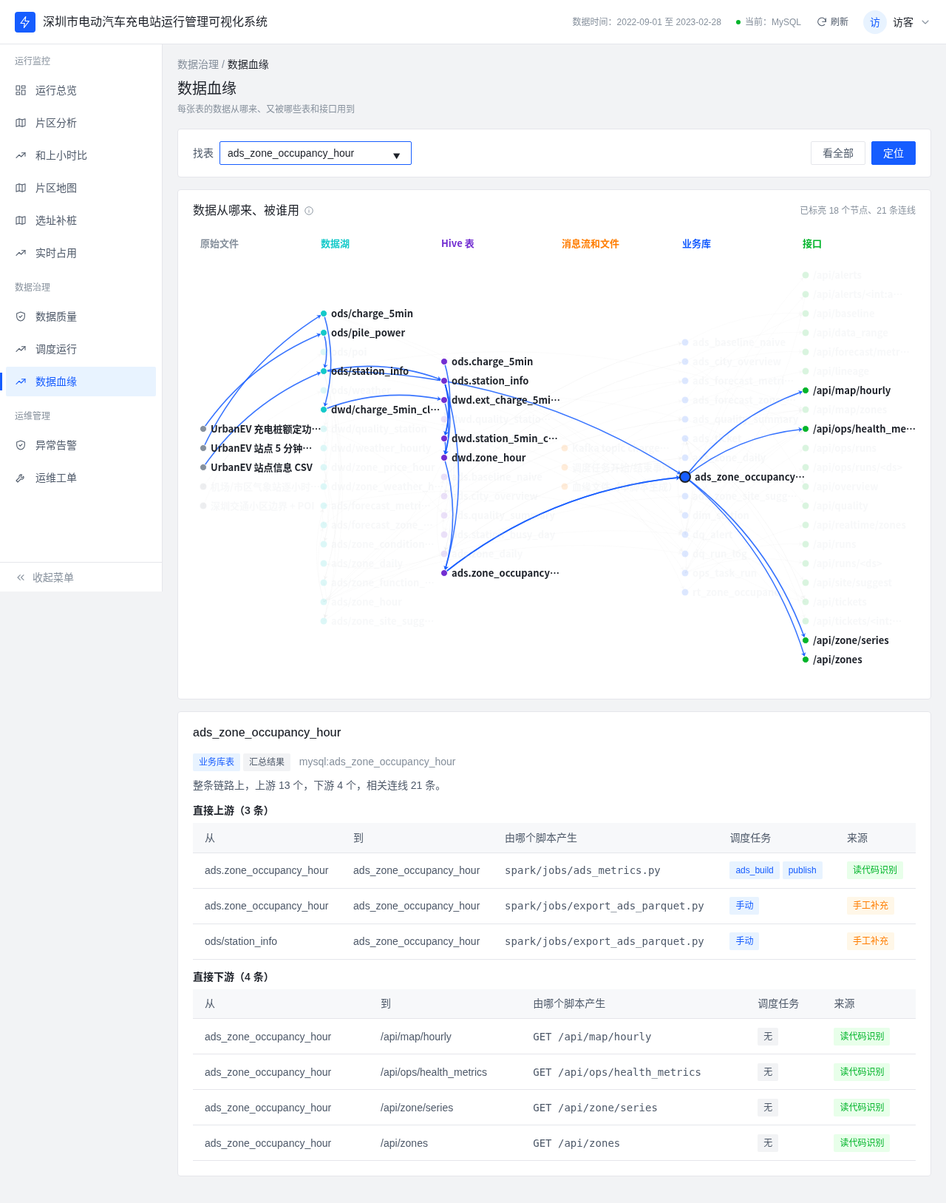
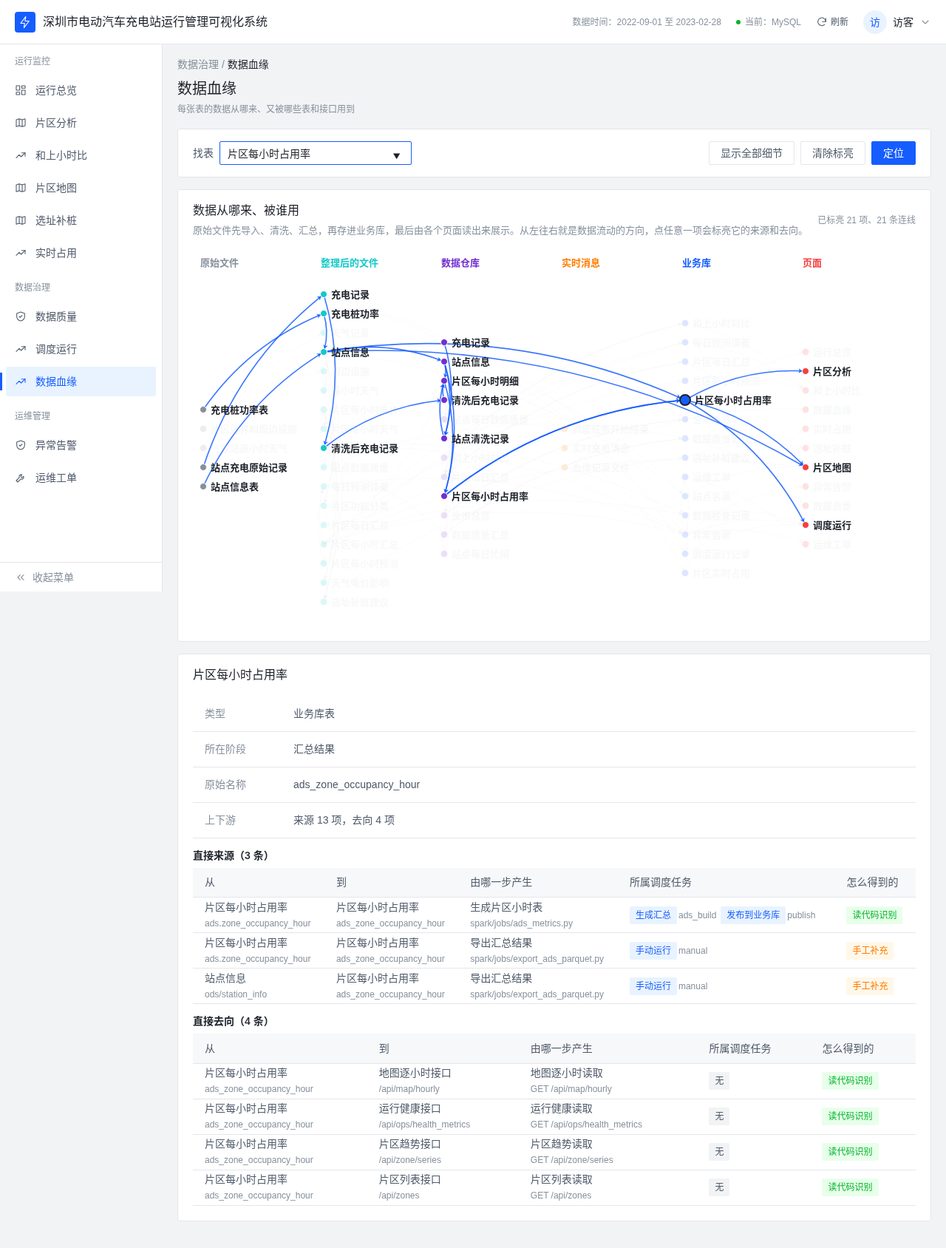
web: 数据血缘页改成中文名称、默认简要视图（业务库→页面），可切换全部细节；详情面板中文化

diff --git a/web/index.html b/web/index.html
@@ -288,11 +288,11 @@
     </section>
     <section class="view" id="view-lineage">
       <div class="card filter">
-        <div class="f">找表<input id="lnSearch" list="lnList" placeholder="输入表名、目录或接口" style="width:260px" /><datalist id="lnList"></datalist></div>
-        <div class="ops"><button class="btn" id="lnReset">看全部</button><button class="btn primary" id="lnFind">定位</button></div>
+        <div class="f">找表<input id="lnSearch" list="lnList" placeholder="输入名称，如 片区每小时占用率" style="width:260px" /><datalist id="lnList"></datalist></div>
+        <div class="ops"><button class="btn" id="lnToggle">显示全部细节</button><button class="btn" id="lnReset">清除标亮</button><button class="btn primary" id="lnFind">定位</button></div>
       </div>
       <div class="grid">
-        <div class="card col-24"><div class="card-head"><div class="card-title">数据从哪来、被谁用<span class="tip" data-tip="从左到右是数据流动的方向。点一个节点，会把它的全部上游和下游标亮"><svg class="ic"><use href="#i-info"/></svg></span></div><div class="card-extra" id="lnExtra"></div></div>
+        <div class="card col-24"><div class="card-head"><div><div class="card-title">数据从哪来、被谁用</div><div style="color:#86909c;font-size:13px;margin-top:4px">原始文件先导入、清洗、汇总，再存进业务库，最后由各个页面读出来展示。从左往右就是数据流动的方向，点任意一项会标亮它的来源和去向。</div></div><div class="card-extra" id="lnExtra"></div></div>
           <div class="card-body"><div id="lnState" class="empty" style="display:none"></div><div id="chartLineage" style="height:640px"></div></div></div>
         <div class="card col-24" id="lnPanel" style="display:none"><div class="card-head"><div class="card-title" id="lnPanelTitle">节点详情</div></div>
           <div class="card-body" id="lnPanelBody"></div></div>
@@ -1317,13 +1317,64 @@
     let rtRows = [];
     function rtStart() { if (rtTimer) return; loadRealtime(); rtTimer = setInterval(() => { if (!document.hidden) loadRealtime(); }, RT_EVERY); }
     /* ---------- 数据血缘 ---------- */
-    const LN_COLS = [["raw", "原始文件"], ["lake", "数据湖"], ["hive", "Hive 表"], ["stream", "消息流和文件"], ["mysql", "业务库"], ["api", "接口"]];
-    const LN_COL_OF = { raw: 0, lake: 1, hive: 2, stream: 3, file: 3, mysql: 4, api: 5 };
-    const LN_KIND = { raw: "原始文件", lake: "数据湖目录", hive: "Hive 表", stream: "消息流", file: "文件", mysql: "业务库表", api: "接口" };
-    const LN_LAYER = { raw: "原始数据", ods: "原始入库", dwd: "清洗后", ads: "汇总结果", dq: "数据检查", ops: "调度记录", rt: "实时", stream: "消息流", file: "文件", api: "接口" };
-    const LN_COLOR = ["#86909c", "#14c9c9", "#722ed1", "#ff7d00", "#165dff", "#00b42a"];
-    let lnAll = null, lnSel = null, lnHi = null, lnHiEdges = null;
-    const lnName = id => { const n = lnAll && lnAll.nodes.find(x => x.id === id); return n ? n.label : id; };
+    const LN_NAME = {
+      "raw:pile_information": "充电桩功率表", "raw:station_information": "站点信息表", "raw:taz_shapefile_poi": "片区边界和周边设施",
+      "raw:urbanev_station_raw": "站点充电原始记录", "raw:weather_csv": "气象站逐小时天气",
+      "stream:airflow_task_events": "调度任务开始结束", "stream:kafka_charge_5min": "实时充电消息", "file:lineage/lineage.json": "血缘记录文件",
+      "lake:ods/charge_5min": "充电记录", "lake:ods/pile_power": "充电桩功率", "lake:ods/poi": "周边设施", "lake:ods/station_info": "站点信息", "lake:ods/weather": "天气记录",
+      "lake:dwd/charge_5min_clean": "清洗后充电记录", "lake:dwd/quality_station": "站点数据质量", "lake:dwd/weather_hourly": "每小时天气",
+      "lake:dwd/zone_price_hour": "片区每小时电价", "lake:dwd/zone_weather_hour": "片区每小时天气",
+      "lake:ads/forecast_metric_daily": "每日预测误差", "lake:ads/forecast_zone_hour": "片区每小时预测", "lake:ads/zone_condition_effect": "天气电价影响",
+      "lake:ads/zone_daily": "片区每日汇总", "lake:ads/zone_function_label": "片区功能分类", "lake:ads/zone_hour": "片区每小时汇总", "lake:ads/zone_site_suggest": "选址补桩建议",
+      "hive:ods.charge_5min": "充电记录", "hive:ods.station_info": "站点信息", "hive:dwd.ext_charge_5min_clean": "清洗后充电记录",
+      "hive:dwd.quality_station_day": "站点每日数据质量", "hive:dwd.station_5min_clean": "站点清洗记录", "hive:dwd.zone_hour": "片区每小时明细",
+      "hive:ads.baseline_naive": "和上小时对比", "hive:ads.city_overview": "全市总览", "hive:ads.quality_summary": "数据质量汇总",
+      "hive:ads.station_busy_day": "站点每日忙闲", "hive:ads.zone_daily": "片区每日汇总", "hive:ads.zone_occupancy_hour": "片区每小时占用率",
+      "mysql:ads_baseline_naive": "和上小时对比", "mysql:ads_city_overview": "全市总览", "mysql:ads_forecast_metric_daily": "每日预测误差",
+      "mysql:ads_forecast_zone_hour": "片区每小时预测", "mysql:ads_quality_summary": "数据质量汇总", "mysql:ads_ticket": "运维工单",
+      "mysql:ads_zone_daily": "片区每日汇总", "mysql:ads_zone_occupancy_hour": "片区每小时占用率", "mysql:ads_zone_site_suggest": "选址补桩建议",
+      "mysql:dim_station": "站点名录", "mysql:dq_alert": "异常告警", "mysql:dq_run_log": "数据检查记录", "mysql:ops_task_run": "调度运行记录", "mysql:rt_zone_occupancy": "片区实时占用",
+      "api:/api/alerts": "告警列表接口", "api:/api/alerts/<int:alert_id>": "告警处理接口", "api:/api/baseline": "上小时对比接口", "api:/api/data_range": "数据时间范围接口",
+      "api:/api/forecast/metrics": "预测误差接口", "api:/api/lineage": "数据血缘接口", "api:/api/map/hourly": "地图逐小时接口", "api:/api/map/zones": "地图片区接口",
+      "api:/api/ops/health_metrics": "运行健康接口", "api:/api/ops/runs": "运行记录接口", "api:/api/ops/runs/<ds>": "单日运行接口", "api:/api/overview": "总览接口",
+      "api:/api/quality": "数据质量接口", "api:/api/realtime/zones": "实时占用接口", "api:/api/runs": "调度运行接口", "api:/api/runs/<ds>": "单日调度接口",
+      "api:/api/site/suggest": "选址建议接口", "api:/api/tickets": "工单列表接口", "api:/api/tickets/<int:ticket_id>": "工单处理接口",
+      "api:/api/zone/series": "片区趋势接口", "api:/api/zones": "片区列表接口"
+    };
+    const LN_PAGE_OF = { "/api/overview": "overview", "/api/data_range": "overview", "/api/zones": "zone", "/api/zone/series": "zone", "/api/baseline": "baseline",
+      "/api/forecast/metrics": "baseline", "/api/map/hourly": "map", "/api/map/zones": "map", "/api/site/suggest": "site", "/api/realtime/zones": "realtime",
+      "/api/quality": "quality", "/api/runs": "runs", "/api/runs/<ds>": "runs", "/api/ops/runs": "runs", "/api/ops/runs/<ds>": "runs", "/api/ops/health_metrics": "runs",
+      "/api/lineage": "lineage", "/api/alerts": "alerts", "/api/alerts/<int:alert_id>": "alerts", "/api/tickets": "tickets", "/api/tickets/<int:ticket_id>": "tickets" };
+    const LN_SCRIPT = { "etl/full_pipeline.py": "整理原始数据", "etl/pile_power.py": "整理充电桩功率", "etl/weather_price.py": "整理天气和电价", "etl/zone_profile.py": "生成片区画像",
+      "forecast/daily.py": "每日预测", "forecast/evaluate.py": "评估预测误差", "orchestration/backfill_run_log.py": "补录运行记录", "orchestration/rebuild_dq_alerts.py": "重新生成告警",
+      "orchestration/run_log.py": "记录调度运行", "quality/engine.py": "数据检查", "spark/jobs/ads_build.py": "生成汇总表", "spark/jobs/ads_metrics.py": "生成片区小时表",
+      "spark/jobs/dwd_clean.py": "清洗充电记录", "spark/jobs/export_ads_parquet.py": "导出汇总结果", "stream/zone_occupancy_stream.py": "计算实时占用",
+      "PATCH /api/alerts/<int:alert_id>": "处理告警时写回", "PATCH /api/tickets/<int:ticket_id>": "处理工单时写回", "POST /api/tickets": "新建工单" };
+    const LN_TASK = { ads_build: "生成汇总", all_tasks: "全部任务", dq_ads: "检查汇总数据", dq_dwd: "检查清洗数据", dq_ods: "检查原始数据", dwd_build: "清洗数据",
+      forecast_daily: "每日预测", forecast_evaluate: "评估预测", manual: "手动运行", ods_ingest: "导入原始数据", publish: "发布到业务库", streaming: "实时计算" };
+    const LN_KIND = { raw: "原始文件", lake: "整理后的文件", hive: "数据仓库表", stream: "实时消息", file: "文件", mysql: "业务库表", api: "接口", page: "页面" };
+    const LN_LAYER = { raw: "原始数据", ods: "刚导入", dwd: "清洗后", ads: "汇总结果", dq: "数据检查", ops: "调度记录", rt: "实时", stream: "实时消息", file: "文件", api: "接口", page: "页面" };
+    const lnScript = s => { if (!s) return "—"; if (LN_SCRIPT[s]) return LN_SCRIPT[s]; const m = s.match(/^GET (\S+)/); return m && LN_NAME["api:" + m[1]] ? LN_NAME["api:" + m[1]].replace(/接口$/, "") + "读取" : s; };
+    let lnAll = null, lnSel = null, lnHi = null, lnFull = false;
+    const lnNode = id => lnView().nodes.find(x => x.id === id) || (lnAll && lnAll.nodes.find(x => x.id === id));
+    const lnName = id => id.startsWith("page:") ? ROUTES[id.slice(5)][1] : (LN_NAME[id] || ((lnAll && lnAll.nodes.find(x => x.id === id)) || {}).label || id);
+    const lnRaw = id => { const n = lnAll && lnAll.nodes.find(x => x.id === id); return n ? n.label : id; };
+    function lnView() {
+      const pages = [...new Set(Object.values(LN_PAGE_OF))].filter(p => ROUTES[p]).map(p => ({ id: "page:" + p, kind: "page", layer: "page", label: ROUTES[p][1] }));
+      const pageOf = id => { const p = id.startsWith("api:") && LN_PAGE_OF[id.slice(4)]; return p ? "page:" + p : null; };
+      const used = new Set(), pe = [], seen = new Set();
+      lnAll.edges.forEach(e => { const p = pageOf(e.target); if (p && !e.source.startsWith("api:") && !seen.has(e.source + p)) { seen.add(e.source + p); used.add(p); pe.push({ source: e.source, target: p, page: true }); } });
+      const usedPages = pages.filter(p => used.has(p.id));
+      if (lnFull) {
+        const ae = lnAll.nodes.filter(n => n.kind === "api" && pageOf(n.id)).map(n => ({ source: n.id, target: pageOf(n.id), page: true }));
+        ae.forEach(e => used.add(e.target));
+        return { nodes: lnAll.nodes.concat(pages.filter(p => used.has(p.id))), edges: lnAll.edges.concat(ae), cols: ["原始文件", "整理后的文件", "数据仓库", "实时消息", "业务库", "接口", "页面"] };
+      }
+      return { nodes: lnAll.nodes.filter(n => n.kind !== "api").concat(usedPages), edges: lnAll.edges.filter(e => !e.source.startsWith("api:") && !e.target.startsWith("api:")).concat(pe),
+        cols: ["原始文件", "整理后的文件", "数据仓库", "实时消息", "业务库", "页面"] };
+    }
+    const LN_COL_OF = { raw: 0, lake: 1, hive: 2, stream: 3, file: 3, mysql: 4, api: 5, page: 6 };
+    const LN_COLOR = ["#86909c", "#14c9c9", "#722ed1", "#ff7d00", "#165dff", "#00b42a", "#f53f3f"];
     function lnState(msg, retry) {
       const st = $("lnState");
       if (!msg) { st.style.display = "none"; $("chartLineage").style.visibility = ""; return; }
@@ -1338,74 +1389,89 @@
       try { d = await apiGet("/api/lineage"); } catch (e) { lnState("血缘数据暂时取不到，请稍后再试。", true); $("lnExtra").textContent = ""; return; }
       if (!d || !(d.nodes || []).length) { lnState("还没有血缘数据。"); $("lnExtra").textContent = ""; return; }
       lnAll = { nodes: d.nodes, edges: d.edges || [] };
-      $("lnList").innerHTML = lnAll.nodes.map(n => `<option value="${escHtml(n.label)}"></option>`).join("");
       lnState(""); lnDraw();
     }
     function lnDraw() {
-      const cols = LN_COLS.map(() => []);
-      lnAll.nodes.forEach(n => cols[LN_COL_OF[n.kind] ?? 3].push(n));
-      const order = ["raw", "ods", "dwd", "ads", "dq", "ops", "rt", "stream", "file", "api"];
-      cols.forEach(c => c.sort((a, b) => (order.indexOf(a.layer) - order.indexOf(b.layer)) || a.label.localeCompare(b.label)));
+      const v = lnView(), nc = v.cols.length;
+      const colOf = n => { let c = LN_COL_OF[n.kind] ?? 3; if (!lnFull && c === 6) c = 5; return c; };
+      $("lnList").innerHTML = v.nodes.map(n => `<option value="${escHtml(lnName(n.id))}"></option>`).join("");
+      const cols = v.cols.map(() => []);
+      v.nodes.forEach(n => cols[colOf(n)].push(n));
+      const order = ["raw", "ods", "dwd", "ads", "dq", "ops", "rt", "stream", "file", "api", "page"];
+      const pord = Object.keys(ROUTES);
+      cols.forEach(c => c.sort((a, b) => (order.indexOf(a.layer) - order.indexOf(b.layer)) || (pord.indexOf(a.id.slice(5)) - pord.indexOf(b.id.slice(5))) || lnName(a.id).localeCompare(lnName(b.id), "zh")));
       const rows = Math.max(...cols.map(c => c.length)), rowH = 26, top = 46;
       const h = top + rows * rowH + 20;
       $("chartLineage").style.height = h + "px"; charts.chartLineage.resize();
-      const W = $("chartLineage").clientWidth || 1000, colW = W / LN_COLS.length;
-      const maxW = colW - 30, cw = ch => /[\u2e80-\uffff]/.test(ch) ? 11.5 : 6.6;
-      const fit = t => { let w = 0, i = 0; for (; i < t.length; i++) { w += cw(t[i]); if (w > maxW) break; } if (i >= t.length) return t; let o = t.slice(0, i); while (o && [...o].reduce((a, c) => a + cw(c), 0) + 11 > maxW) o = o.slice(0, -1); return o + "…"; };
-      const pos = {};
+      const W = $("chartLineage").clientWidth || 1000, colW = W / nc;
+      const maxW = colW - 30, cw = ch => /[\u2e80-\uffff]/.test(ch) ? 12.5 : 7;
+      const fit = t => { let w = 0, i = 0; for (; i < t.length; i++) { w += cw(t[i]); if (w > maxW) break; } return i >= t.length ? t : t.slice(0, Math.max(1, i - 1)) + "…"; };
       const data = [];
       cols.forEach((c, ci) => c.forEach((n, ri) => {
         const y = top + (rows - c.length) * rowH / 2 + ri * rowH + rowH / 2;
-        pos[n.id] = [colW * ci + 10, y];
         const on = !lnHi || lnHi.has(n.id), me = n.id === lnSel;
-        const txt = fit(n.label);
         data.push({ id: n.id, name: n.id, x: colW * ci + 14, y, symbolSize: me ? 14 : 9,
-          itemStyle: { color: LN_COLOR[ci], opacity: on ? 1 : 0.15, borderColor: me ? "#1d2129" : "#fff", borderWidth: me ? 2 : 1 },
-          label: { show: true, position: "right", formatter: txt, fontSize: 11, color: on ? "#1d2129" : "#c9cdd4", fontWeight: me ? "bold" : "normal" }, _n: n });
+          itemStyle: { color: LN_COLOR[ci === nc - 1 ? 6 : ci], opacity: on ? 1 : 0.15, borderColor: me ? "#1d2129" : "#fff", borderWidth: me ? 2 : 1 },
+          label: { show: true, position: "right", formatter: fit(lnName(n.id)), fontSize: 12, color: on ? "#1d2129" : "#c9cdd4", fontWeight: me ? "bold" : "normal" }, _n: n });
       }));
-      const links = lnAll.edges.map(e => {
-        const on = !lnHiEdges || lnHiEdges.has(e.source + "|" + e.target);
+      let hiEdges = 0;
+      const links = v.edges.map(e => {
+        const on = !lnHi || (lnHi.has(e.source) && lnHi.has(e.target)); if (lnHi && on) hiEdges++;
         return { source: e.source, target: e.target, lineStyle: { color: on && lnHi ? "#165dff" : "#a9aeb8", opacity: on ? (lnHi ? 0.85 : 0.35) : 0.05, width: on && lnHi ? 1.6 : 1, curveness: 0.15 } };
       });
-      const graphic = LN_COLS.map(([, t], i) => ({ type: "text", left: colW * i + 10, top: 10, style: { text: t, fill: LN_COLOR[i], font: "bold 13px sans-serif" } }));
+      const graphic = v.cols.map((t, i) => ({ type: "text", left: colW * i + 10, top: 10, style: { text: t, fill: LN_COLOR[i === nc - 1 ? 6 : i], font: "bold 13px sans-serif" } }));
       charts.chartLineage.setOption({
-        tooltip: { formatter: p => p.dataType === "node" ? `${escHtml(p.data._n.label)}<br/>${LN_KIND[p.data._n.kind] || ""} · ${LN_LAYER[p.data._n.layer] || ""}` : `${escHtml(lnName(p.data.source))} → ${escHtml(lnName(p.data.target))}` },
+        tooltip: { formatter: p => { if (p.dataType !== "node") return `${escHtml(lnName(p.data.source))} → ${escHtml(lnName(p.data.target))}`; const n = p.data._n;
+          return `<b>${escHtml(lnName(n.id))}</b><br/>${LN_KIND[n.kind] || ""} · ${LN_LAYER[n.layer] || ""}` + (n.kind === "page" ? "" : `<br/><span style="color:#86909c">${escHtml(n.label)}</span>`); } },
         graphic,
         series: [{ type: "graph", layout: "none", data, links, edgeSymbol: ["none", "arrow"], edgeSymbolSize: 5, roam: false, animation: false,
-          emphasis: { disabled: true }, left: 14, right: W - (colW * (LN_COLS.length - 1) + 14), top: Math.min(...data.map(x => x.y)), bottom: h - Math.max(...data.map(x => x.y)) }]
+          emphasis: { disabled: true }, left: 14, right: W - (colW * (nc - 1) + 14), top: Math.min(...data.map(x => x.y)), bottom: h - Math.max(...data.map(x => x.y)) }]
       }, true);
-      $("lnExtra").textContent = lnHi ? `已标亮 ${lnHi.size} 个节点、${lnHiEdges.n} 条连线` : `共 ${lnAll.nodes.length} 个节点、${lnAll.edges.length} 条连线，点节点看上下游`;
+      $("lnExtra").textContent = lnHi ? `已标亮 ${lnHi.size} 项、${hiEdges} 条连线` : `共 ${v.nodes.length} 项，点任意一项看它的来源和去向`;
+      $("lnToggle").textContent = lnFull ? "只看简要" : "显示全部细节";
     }
     async function lnPick(id) {
       lnSel = id;
       let d;
-      try { d = await apiGet("/api/lineage?node=" + encodeURIComponent(id) + "&direction=both"); }
-      catch (e) { toast("这个节点的上下游取不到，请稍后再试"); return; }
-      lnHi = new Set((d.nodes || []).map(n => n.id)); lnHi.add(id);
-      lnHiEdges = new Set((d.edges || []).map(e => e.source + "|" + e.target));
-      lnHiEdges.n = (d.edges || []).length;
+      try {
+        if (id.startsWith("page:")) {
+          const apis = Object.keys(LN_PAGE_OF).filter(a => "page:" + LN_PAGE_OF[a] === id && lnAll.nodes.some(n => n.id === "api:" + a));
+          const rs = await Promise.all(apis.map(a => apiGet("/api/lineage?node=" + encodeURIComponent("api:" + a) + "&direction=both")));
+          d = { nodes: rs.flatMap(r => r.nodes || []), edges: rs.flatMap(r => r.edges || []) };
+        } else d = await apiGet("/api/lineage?node=" + encodeURIComponent(id) + "&direction=both");
+      } catch (e) { toast("这一项的来源和去向取不到，请稍后再试"); return; }
+      lnHi = new Set([id]);
+      (d.nodes || []).forEach(n => { lnHi.add(n.id); const p = n.id.startsWith("api:") && LN_PAGE_OF[n.id.slice(4)]; if (p) lnHi.add("page:" + p); });
       lnDraw(); lnPanel(id, d.edges || []);
     }
     function lnPanel(id, edges) {
-      const n = lnAll.nodes.find(x => x.id === id) || { label: id, kind: "", layer: "" };
-      const up = edges.filter(e => e.target === id), down = edges.filter(e => e.source === id);
-      const walk = (from, to) => { const seen = new Set([id]), q = [id]; while (q.length) { const c = q.shift(); edges.forEach(e => { if (e[from] === c && !seen.has(e[to])) { seen.add(e[to]); q.push(e[to]); } }); } return seen; };
+      const n = lnNode(id) || { id, label: id, kind: "", layer: "" };
+      const isPage = id.startsWith("page:");
+      const apiIds = isPage ? new Set(Object.keys(LN_PAGE_OF).filter(a => "page:" + LN_PAGE_OF[a] === id).map(a => "api:" + a)) : new Set([id]);
+      const walk = (from, to) => { const seen = new Set(apiIds), q = [...apiIds]; while (q.length) { const c = q.shift(); edges.forEach(e => { if (e[from] === c && !seen.has(e[to])) { seen.add(e[to]); q.push(e[to]); } }); } apiIds.forEach(x => seen.delete(x)); return seen; };
       const ups = walk("target", "source"), downs = walk("source", "target");
-      const row = e => `<tr><td>${escHtml(lnName(e.source))}</td><td>${escHtml(lnName(e.target))}</td><td><code>${escHtml(e.script || "—")}</code></td><td>${(e.tasks || []).length ? e.tasks.map(t => `<span class="tag blue">${escHtml(t === "manual" ? "手动" : t)}</span>`).join(" ") : '<span class="tag gray">无</span>'}</td><td>${e.auto ? '<span class="tag success">读代码识别</span>' : '<span class="tag warning">手工补充</span>'}</td></tr>`;
+      const up = edges.filter(e => apiIds.has(e.target)), down = isPage ? [] : edges.filter(e => e.source === id);
+      const nm = id => `${escHtml(lnName(id))}<div style="color:#86909c;font-size:12px">${escHtml(lnRaw(id))}</div>`;
+      const row = e => `<tr><td>${nm(e.source)}</td><td>${nm(e.target)}</td><td>${escHtml(lnScript(e.script))}<div style="color:#86909c;font-size:12px">${escHtml(e.script || "")}</div></td><td>${(e.tasks || []).length ? e.tasks.map(t => `<span class="tag blue">${escHtml(LN_TASK[t] || t)}</span><span style="color:#86909c;font-size:12px;margin:0 6px 0 2px">${escHtml(t)}</span>`).join("") : '<span class="tag gray">无</span>'}</td><td>${e.auto ? '<span class="tag success">读代码识别</span>' : '<span class="tag warning">手工补充</span>'}</td></tr>`;
       const tbl = (title, list) => `<div style="margin:12px 0 6px;font-weight:600">${title}（${list.length} 条）</div>` + (list.length
-        ? `<table><thead><tr><th>从</th><th>到</th><th>由哪个脚本产生</th><th>调度任务</th><th>来源</th></tr></thead><tbody>${list.map(row).join("")}</tbody></table>`
+        ? `<table><thead><tr><th>从</th><th>到</th><th>由哪一步产生</th><th>所属调度任务</th><th>怎么得到的</th></tr></thead><tbody>${list.map(row).join("")}</tbody></table>`
         : '<div class="empty">没有</div>');
-      $("lnPanelTitle").textContent = n.label;
-      $("lnPanelBody").innerHTML = `<div><span class="tag blue">${LN_KIND[n.kind] || n.kind}</span> <span class="tag gray">${LN_LAYER[n.layer] || n.layer}</span> <span style="color:#86909c;margin-left:8px">${escHtml(n.id)}</span></div>
-        <div style="margin-top:8px;color:#4e5969">整条链路上，上游 ${[...ups].filter(x => x !== id).length} 个，下游 ${[...downs].filter(x => x !== id).length} 个，相关连线 ${edges.length} 条。</div>`
-        + tbl("直接上游", up) + tbl("直接下游", down);
+      $("lnPanelTitle").textContent = lnName(id);
+      $("lnPanelBody").innerHTML = `<table><tbody>
+          <tr><td style="width:120px;color:#86909c">类型</td><td>${LN_KIND[n.kind] || "—"}</td></tr>
+          <tr><td style="color:#86909c">所在阶段</td><td>${LN_LAYER[n.layer] || "—"}</td></tr>
+          <tr><td style="color:#86909c">原始名称</td><td>${isPage ? "—" : escHtml(n.label)}</td></tr>
+          <tr><td style="color:#86909c">上下游</td><td>来源 ${ups.size} 项，去向 ${downs.size} 项</td></tr></tbody></table>`
+        + tbl(isPage ? "这个页面读的数据" : "直接来源", up) + (isPage ? "" : tbl("直接去向", down));
       $("lnPanel").style.display = "";
     }
     function lnFind() {
       const q = $("lnSearch").value.trim().toLowerCase();
       if (!q || !lnAll) return;
-      const n = lnAll.nodes.find(x => x.label.toLowerCase() === q) || lnAll.nodes.find(x => x.label.toLowerCase().includes(q) || x.id.toLowerCase().includes(q));
-      if (!n) { toast("没找到叫这个名字的表或接口"); return; }
+      const pri = ["mysql", "page", "api", "hive", "lake", "stream", "file", "raw"];
+      const ns = lnView().nodes.slice().sort((x, y) => pri.indexOf(x.kind) - pri.indexOf(y.kind)), f = n => [lnName(n.id), n.label, n.id].map(s => s.toLowerCase());
+      const n = ns.find(x => f(x).includes(q)) || ns.find(x => f(x).some(s => s.includes(q)));
+      if (!n) { toast("没找到这一项"); return; }
       lnPick(n.id);
     }
     charts.chartLineage.on("click", p => { if (p.dataType === "node") lnPick(p.data.id); });
@@ -1413,7 +1479,9 @@
     $("lnFind").onclick = lnFind;
     $("lnSearch").addEventListener("keydown", e => { if (e.key === "Enter") lnFind(); });
     $("lnSearch").addEventListener("change", lnFind);
-    $("lnReset").onclick = () => { lnSel = lnHi = lnHiEdges = null; $("lnSearch").value = ""; $("lnPanel").style.display = "none"; if (lnAll) lnDraw(); };
+    const lnClear = () => { lnSel = lnHi = null; $("lnSearch").value = ""; $("lnPanel").style.display = "none"; };
+    $("lnReset").onclick = () => { lnClear(); if (lnAll) lnDraw(); };
+    $("lnToggle").onclick = () => { lnFull = !lnFull; lnClear(); if (lnAll) lnDraw(); };
     function rtStop() { clearInterval(rtTimer); rtTimer = null; }
     function route() {
       let r = (location.hash.match(/^#\/(\w+)/) || [])[1];

diff --git a/tests/ui/test_pages.py b/tests/ui/test_pages.py
@@ -242,17 +242,20 @@ def test_realtime_page_fixture_and_refresh(browser):
 
 
 def test_lineage_page_fixture(browser):
-    """数据血缘：分层画图、点节点标亮上下游并出详情、搜索、出错和空数据提示。"""
+    """数据血缘：默认简要图用中文名、页面列；点节点标亮上下游并出中文详情；可切换全部细节；搜索、出错和空数据提示。"""
     import json
     from urllib.parse import urlparse, parse_qs
     pg, probs = open_page(browser)
     N = lambda i, k, l, lab: {"id": i, "kind": k, "layer": l, "name": lab, "label": lab}
-    nodes = [N("raw:a", "raw", "raw", "站点 CSV"), N("lake:ods/a", "lake", "ods", "ods/a"), N("hive:ods.a", "hive", "ods", "ods.a"),
-             N("mysql:t_a", "mysql", "ads", "t_a"), N("api:/api/a", "api", "api", "/api/a"), N("mysql:t_other", "mysql", "ads", "t_other")]
+    nodes = [N("raw:station_information", "raw", "raw", "UrbanEV 站点信息 CSV"), N("lake:ods/station_info", "lake", "ods", "ods/station_info"),
+             N("hive:ods.station_info", "hive", "ods", "ods.station_info"), N("mysql:ads_zone_occupancy_hour", "mysql", "ads", "ads_zone_occupancy_hour"),
+             N("api:/api/zones", "api", "api", "/api/zones"), N("mysql:no_map_table", "mysql", "ads", "no_map_table")]
     E = lambda s, t, sc, tasks, auto=True: {"source": s, "target": t, "kind": "write", "script": sc, "tasks": tasks, "auto": auto}
-    edges = [E("raw:a", "lake:ods/a", "etl/ingest.py", ["ods_ingest"]), E("lake:ods/a", "hive:ods.a", "etl/ingest.py", ["ods_ingest"]),
-             E("hive:ods.a", "mysql:t_a", "spark/jobs/pub.py", ["publish"], False), E("mysql:t_a", "api:/api/a", "GET /api/a", [])]
-    mode = {"v": "ok"}
+    edges = [E("raw:station_information", "lake:ods/station_info", "etl/full_pipeline.py", ["ods_ingest"]),
+             E("lake:ods/station_info", "hive:ods.station_info", "etl/full_pipeline.py", ["ods_ingest"]),
+             E("hive:ods.station_info", "mysql:ads_zone_occupancy_hour", "spark/jobs/ads_metrics.py", ["publish"], False),
+             E("mysql:ads_zone_occupancy_hour", "api:/api/zones", "GET /api/zones", [])]
+    mode = {"v": "ok"}; asked = []
     def handle(r):
         q = parse_qs(urlparse(r.request.url).query)
         if mode["v"] == "err":
@@ -260,7 +263,7 @@ def test_lineage_page_fixture(browser):
         if mode["v"] == "empty":
             d = {"nodes": [], "edges": []}
         elif q.get("node"):
-            assert q.get("direction") == ["both"]
+            asked.append((q["node"][0], q.get("direction")))
             d = {"nodes": nodes[:5], "edges": edges}
         else:
             d = {"nodes": nodes, "edges": edges}
@@ -268,20 +271,29 @@ def test_lineage_page_fixture(browser):
     pg.route("**/api/lineage*", handle)
     pg.goto(f"{UI_BASE}#/lineage"); pg.wait_for_timeout(1500)
     js = "echarts.getInstanceByDom(document.getElementById('chartLineage')).getOption()"
-    assert pg.evaluate(js + ".series[0].data.length") == 6
+    labels = dict(pg.evaluate(js + ".series[0].data.map(d => [d.id, d.label.formatter])"))
+    assert "api:/api/zones" not in labels  # 简要图不画接口
+    assert labels["mysql:ads_zone_occupancy_hour"] == "片区每小时占用率"
+    assert labels["page:zone"] == "片区分析"
+    assert labels["mysql:no_map_table"] == "no_map_table"  # 没有中文名就用原名
     heads = pg.evaluate(js + ".graphic[0].elements.map(e => e.style.text)")
-    assert heads == ["原始文件", "数据湖", "Hive 表", "消息流和文件", "业务库", "接口"]
+    assert heads == ["原始文件", "整理后的文件", "数据仓库", "实时消息", "业务库", "页面"]
     xs = dict(pg.evaluate(js + ".series[0].data.map(d => [d.id, d.x])"))
-    assert xs["raw:a"] < xs["lake:ods/a"] < xs["hive:ods.a"] < xs["mysql:t_a"] < xs["api:/api/a"]
-    pg.fill("#lnSearch", "t_a"); pg.press("#lnSearch", "Enter"); pg.wait_for_timeout(800)
+    assert xs["raw:station_information"] < xs["lake:ods/station_info"] < xs["hive:ods.station_info"] < xs["mysql:ads_zone_occupancy_hour"] < xs["page:zone"]
+    assert not re.search(r"[A-Za-z]", pg.inner_text("#view-lineage")), "默认不应看到英文"
+    pg.fill("#lnSearch", "片区每小时占用率"); pg.press("#lnSearch", "Enter"); pg.wait_for_timeout(800)
+    assert asked[-1] == ("mysql:ads_zone_occupancy_hour", ["both"])
+    assert pg.inner_text("#lnPanelTitle") == "片区每小时占用率"
     body = pg.inner_text("#lnPanelBody")
-    assert pg.inner_text("#lnPanelTitle") == "t_a"
-    assert "spark/jobs/pub.py" in body and "publish" in body and "手工补充" in body and "GET /api/a" in body
-    op = pg.evaluate(js + ".series[0].data.map(d => [d.id, d.itemStyle.opacity])")
-    assert dict(op)["mysql:t_other"] < 0.5 and dict(op)["raw:a"] == 1
-    assert "已标亮 5 个节点" in pg.inner_text("#lnExtra")
-    pg.click("#lnReset"); pg.wait_for_timeout(300)
-    assert not pg.is_visible("#lnPanel")
+    for t in ("类型", "业务库表", "原始名称", "ads_zone_occupancy_hour", "生成片区小时表", "spark/jobs/ads_metrics.py", "发布到业务库", "手工补充", "片区列表读取"):
+        assert t in body, t
+    op = dict(pg.evaluate(js + ".series[0].data.map(d => [d.id, d.itemStyle.opacity])"))
+    assert op["mysql:no_map_table"] < 0.5 and op["raw:station_information"] == 1 and op["page:zone"] == 1
+    pg.click("#lnToggle"); pg.wait_for_timeout(400)
+    labels = dict(pg.evaluate(js + ".series[0].data.map(d => [d.id, d.label.formatter])"))
+    assert labels["api:/api/zones"] == "片区列表接口" and "page:zone" in labels
+    assert pg.inner_text("#lnToggle") == "只看简要" and not pg.is_visible("#lnPanel")
+    pg.click("#lnToggle"); pg.wait_for_timeout(300)
     assert not probs["js"], probs["js"]
     assert not BANNED.findall(pg.evaluate("document.body.innerText"))
     for m, txt in (("err", "血缘数据暂时取不到"), ("empty", "还没有血缘数据")):
